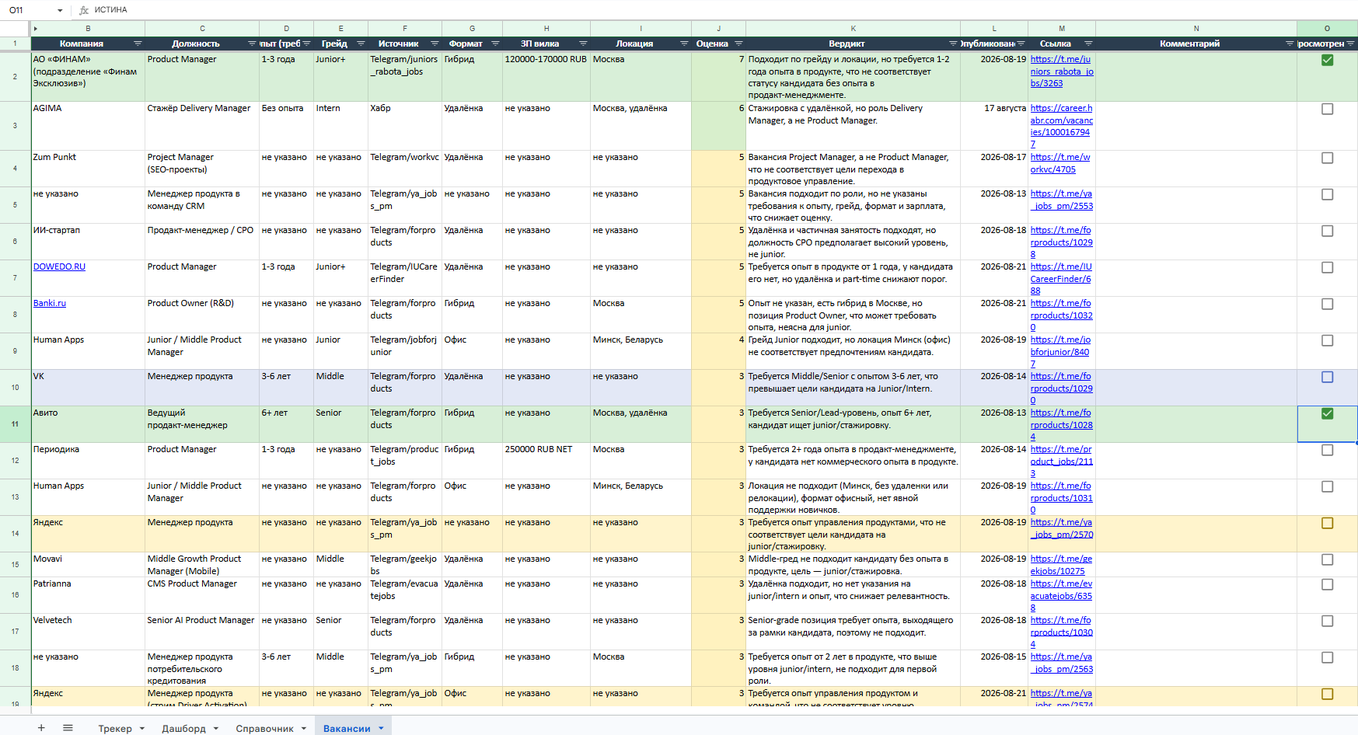
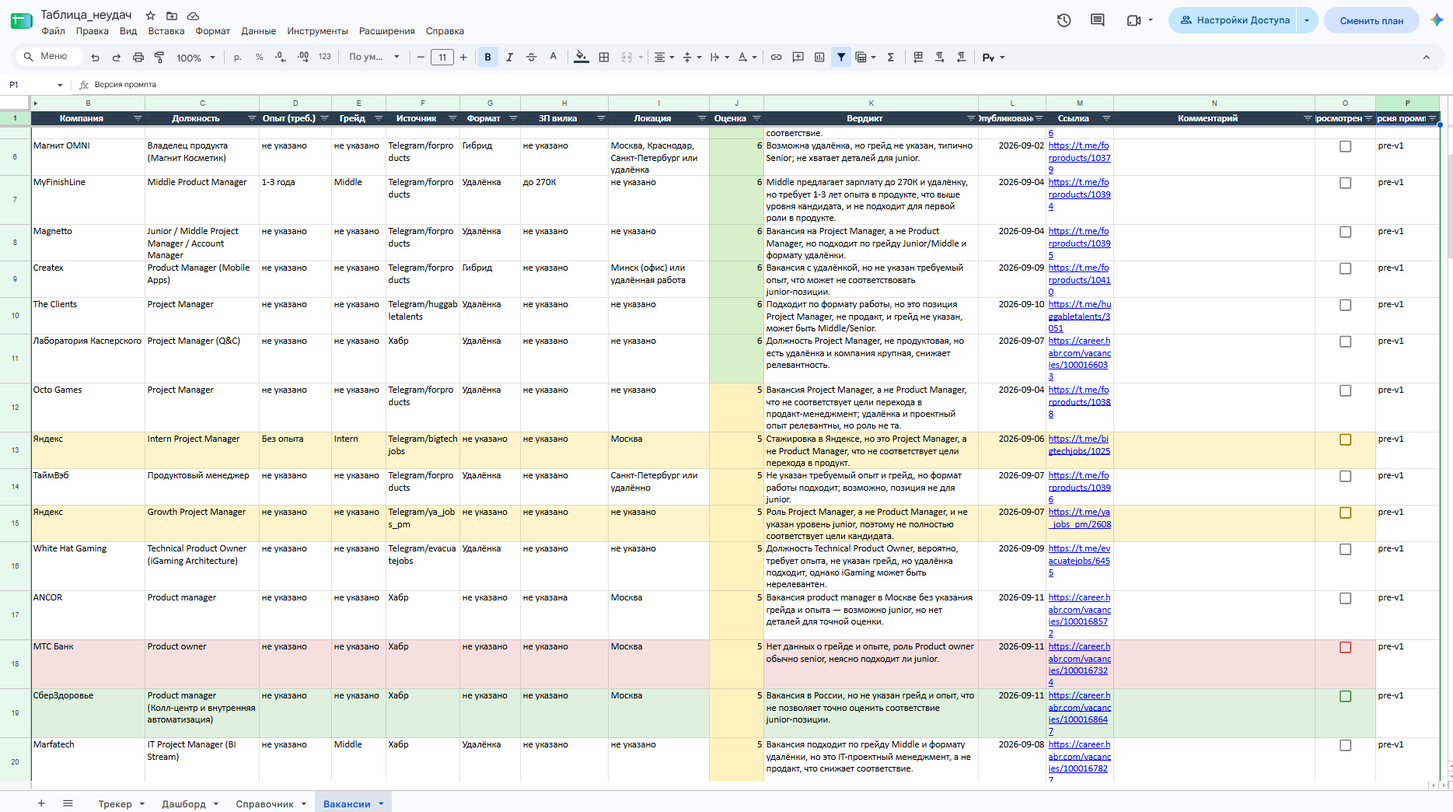
README: переписан как история эволюции, добавлен бот и наблюдаемость

diff --git a/README.md b/README.md
@@ -1,22 +1,22 @@
 # Новая вакансия подъехала
 
-Мой личный агент: сам находит стажировки и junior-вакансии в продукте, отсеивает лишнее и присылает в телеграм только то, что реально стоит открыть.
+Началось как личный скрипт: надоело вручную просматривать десятки телеграм-каналов в поисках первой роли в продукте. Закончилось телеграм-ботом, которым пользуюсь не только я.
 
-Собирает вакансии с Хабра и телеграм-каналов дважды в сутки, прогоняет через нейросеть, складывает в таблицу и пингует меня. Всё крутится в облаке само, компьютер включать не нужно.
+Собирает вакансии с Хабр Карьеры и 38 телеграм-каналов, прогоняет через нейросеть, складывает в таблицу и присылает подходящее в телеграм. Крутится в облаке само, компьютер включать не нужно.
 
-![Лист «Вакансии»: оценка цветовой шкалой, подсветка компаний](docs/vacancy-sheet.png)
+![Лист «Вакансии»: оценка, вердикт нейросети, версия промпта](docs/vacancy-sheet.png)
+
+Ниже - не описание готовой архитектуры, а история, как она такой стала. Почти каждое решение здесь переделывалось минимум один раз, и обычно потому, что данные не совпали с тем, что я думал.
 
 ## Проблема
 
-Искать первую роль в продукте - это подписаться на кучу каналов и постоянно высматривать в них своё. Неудобно: телеграм захламляется вакансиями, поток идёт вперемешку, и почти всё в нём - не твоё. Senior-позиции, вакансии не про продукт, реклама курсов.
+Искать первую роль в продукте - это подписаться на кучу каналов и постоянно высматривать в них своё. Телеграм захламляется, поток идёт вперемешку, и почти всё в нём - не твоё. Senior-позиции, вакансии не про продукт, реклама курсов.
 
 - **Где вообще смотреть?** hh.ru закрыл соискательский API - официально «поддержка прекращена 15 декабря 2025», по факту доступ отвалился весной 2026. Остались агрегаторы в телеграме и career-площадки.
-- **Как отличить своё от чужого?** мне, junior, не нужны Middle и Senior, но в ленте они вперемешку с подходящим, и глазами это разгребать долго.
-- **Одно и то же по пять раз.** каналы репостят друг друга, и одна вакансия прилетает из кучи мест.
+- **Как отличить своё от чужого?** мне, junior, не нужны Middle и Senior, но в ленте они вперемешку с подходящим.
+- **Одно и то же по пять раз.** каналы репостят друг друга, одна вакансия прилетает из кучи мест.
 
-## Как это работает
-
-Коротко: собрал → нейросеть оценила → сложил в таблицу → прислал в телеграм. И так каждые 12 часов, само.
+## Как это работает сейчас
 
 ```
 Откуда беру
@@ -27,70 +27,129 @@
 Собираю ─────── выкидываю явно не то, склеиваю повторы,
   │             отбрасываю всё старше 10 дней
   v
-Оценивает нейросеть ── ставит балл 0-10 и пишет вердикт,
-  │                     почему подходит или нет
+Оценивает нейросеть ── балл 0-10 и вердикт, почему подходит или нет
+  │
   v
-Таблица ─────── что прошло по баллу - падает сюда,
-  │             отсортировано, лучшее сверху
+Таблица ─────── что прошло по баллу - падает сюда, лучшее сверху
+  │
   v
-Телеграм ────── счётчик + топ подходящих (должность кликабельна)
+Телеграм ────── мне лично в служебный канал, подписчикам - в бота
 ```
 
-Всё это запускается по расписанию само - через GitHub Actions, дважды в день.
+Запускается по расписанию через GitHub Actions: основной слот утром и страховочный днём. Страховочный - не вторая рассылка, а догоняющий: если утренний запуск пропустили (у бесплатного крона такое бывает), он доберёт неотправленное. Для человека это выглядит как «раз в день».
 
-Так выглядит живой прогон (запустил вручную вскоре после автоматического - потому новых мало, основное собралось утром):
+Живой прогон:
 
-![Лог прогона: сбор с 38 каналов, воронка отсева, оценка нейросетью](docs/run-log.png)
+![Лог прогона: 249 карточек с Хабра, 5668 постов из 38 каналов, воронка отсева](docs/run-log.png)
 
-## Что внутри интереснее всего
+Воронка за один заход: 249 карточек с Хабра и 5668 постов из телеграма превращаются в две записи. Всё остальное отсеивается - как старое, как не-вакансии, как не подходящее по грейду.
 
-**Оценивает нейросеть, а не поиск по словам.** Я скармливаю ей текст вакансии и говорю, кто я: junior, перехожу в продукт. Она ставит балл и коротко объясняет решение. Обычный поиск по словам «product manager» притащил бы и Senior, и Project Manager - а нейросеть понимает, что Senior мне сейчас не по грейду, и честно ставит низкий балл с пояснением.
+## Что переделывалось и почему
 
-**Мусор не доходит до таблицы.** В таблицу попадает только то, что набрало 3 балла и выше. Порог подобрал по живым данным: всё, что ниже, стабильно оказывалось «не продукт» или явный Senior. Смысл простой - если в списке три четверти шума, ты его просто перестаёшь открывать.
+### Порог: симптом указывал не туда
 
-Масштаб отсева видно на одном прогоне: собралось больше тысячи постов, из них почти тысяча - старше 10 дней и сразу в топку, до оценки нейросетью доходит несколько десятков свежих, а в таблицу падают единицы по-настоящему подходящих. Бот прожёвывает эту тысячу за меня - я открываю только то, что осталось.
+Первая версия писала в таблицу всё подряд и слала в телеграм всё, что выше минимального балла. В боте оказался мусор: Senior, Project Manager, вакансии не про продукт.
 
-**Повторы не задваиваются.** У каждой вакансии есть невидимая метка-отпечаток. Каналы могут репостить один и тот же пост хоть десять раз - с такой меткой он запишется только однажды. Между заходами (а бот просыпается дважды в сутки) прошлые вакансии тоже помнятся: перемолоть больше тысячи постов и не записать ни одного повтора - обычный прогон.
+Очевидная гипотеза - нейросеть плохо оценивает. Проверил: взял то, что она забраковала, и перечитал руками. Оценивала честно, везде опыт от года-двух или Senior.
 
-**Нейросеть иногда капризничает - научил не спотыкаться.** Дешёвая модель любит «поразмышлять вслух» вместо того чтобы просто ответить, и от этого ломается. Лечится не повторами, а одной настройкой: «думай про себя, мне отдавай только ответ». Отдельно есть повтор на случай, если интернет моргнул.
+Причина была в другом месте: порог показа в боте стоял на том же значении, что порог записи в таблицу. Всё, что годилось для «посмотреть потом», летело в уведомление. Развёл два порога: в таблицу - от 3 баллов, в бота - от 5. Мусор остался в таблице, где ему и место.
 
-**Таблица сама себя чистит.** Вакансии старше 10 дней уезжают из таблицы каждый прогон - они уже протухли. Специально не стал ставить жёсткий лимит «не больше N строк»: удалишь свежую - а она на следующем заходе вернётся как «новая», и получится вечная карусель. Чищу только по возрасту.
+### Дедуп, который выглядел рабочим
 
-**Уведомление, из которого сразу видно суть.** Раньше бот присылал только счётчик - «новых N», и всё равно приходилось лезть в таблицу. Теперь в сообщение попадает топ самых подходящих: должность кликабельной ссылкой, компания, формат, город. Открываю вакансию прямо из телеграма, в таблицу - только если хочу копнуть глубже. Порог для показа в уведомлении выше, чем для попадания в таблицу: в таблицу идёт всё годное, в пуш - только явно моё, чтобы сообщение не превращалось в простыню. Пишет и когда не нашёл ничего нового - короткое «пока тишина». Так я вижу, что бот отработал и жив, а не завис молча.
+В таблице копились дубли. Дедуп по отпечатку вакансии был написан и на вид работал.
 
-**Ключи и доступы - подальше от чужих глаз.** У бота есть ключ к нейросети, токен телеграм-бота и доступ к моим таблицам - попади это к постороннему, он получит и мой доступ, и мои деньги на счету нейросети. Поэтому ничего этого нет в коде: секреты лежат отдельно (локально в файле, который не уходит в общий доступ, в облаке - в защищённом хранилище GitHub), а в самом коде только их названия, не значения. Один раз, разбирая задачу с ИИ по скриншотам, я не заметил, что в кадр попал токен бота, в итоге отозвал его и выпустил новый. Лучше сразу в себе воспитывать безопасность, как будто и ИИ не стоит доверять.
+Оказалось, в листе была скрытая колонка, и запись уходила со сдвигом на одну позицию: отпечаток ложился не в ту ячейку. Проверка искала его там, где его никогда не было, и каждый раз честно отвечала «такого нет».
 
-## Почему нейросеть, а не просто фильтр по словам
+Ошибок нет, логи чистые, всё «работает» - поломка была молчаливой. Нашёл только потому, что полез смотреть глазами, что реально лежит в ячейках. Пары дней хватило, чтобы дублей набралось заметно.
 
-Можно было отфильтровать по ключевым словам - дёшево и без всяких нейросетей. Но подходит вакансия или нет - это не список слов. «Product Manager, опыт 1-3 года» по названию вроде моё, а по сути уже нет. Нейросеть читает требования целиком и отвечает на вопрос «а этому конкретному человеку оно подходит?», а не «есть ли в тексте нужное слово».
+### Хабр: три гипотезы, ни одна не подтвердилась
 
-Проверил, что оценивает честно: вакансии, которые она забраковала низким баллом, я перепроверил руками - и правда не для junior, везде опыт от года-двух или Senior. Годное в отсев не улетает.
+Хабр давал 2-4 вакансии за прогон при сотнях из телеграма. Списывал на бедность источника.
+
+Когда дошли руки, выдвинул три версии: сломался парсер, слишком жёсткий предфильтр, или на Хабре правда ничего нет. Не подтвердилась ни одна.
+
+В адресе запроса к Хабру остались параметры «Казань + Москва + удалёнка» - от старой версии, когда я искал только по этим городам. Профиль давно сменился на «вся Россия и удалёнка», это было прописано в задании для нейросети, но в сборщике осталось по-старому. Рассинхрон между двумя звеньями, который не проявлялся как ошибка - просто половина рынка не доезжала до оценки.
+
+Убрал фильтр: сбор вырос с 2 до 37 вакансий за прогон (249 карточек до отсева).
+
+Отдельный урок для меня: пока разбирались, я дважды принёс цифры, которые ничего не доказывали - смотрел выдачу Хабра в браузере, а не тем запросом, которым ходит код. Проверять надо тем же путём, которым ходит система, иначе меряешь не то.
+
+### Лимит, который тихо резал недоставленное
+
+В таблице стоял предел на количество строк - страховка от бесконечного роста. Раньше он не срабатывал, потому что вакансий было мало.
+
+После расширения Хабра поток вырос, и обнаружилось: при переполнении лимит резал строки, ничего не зная о том, ушли они подписчикам или ещё ждут своей очереди. За прогон рассылается не больше десяти вакансий, остальные ждут следующего - и могли быть удалены раньше, чем дойдёт очередь. Не дубль у людей, а тихая потеря: вакансия исчезала и до них не доходила вовсе.
+
+Нашли на 144 строках из 150, за пару дней до срабатывания.
+
+Можно было поднять лимит - и это был бы ремонт симптома. Вместо этого лимит научился знать о доставке: строки, которые ещё не ушли подписчикам и прошли по баллу, обрезке не подлежат.
+
+## Личный инструмент стал продуктом
+
+До какого-то момента это был скрипт для одного человека. Потом стало понятно, что та же боль есть у всех, кто ищет первую роль в продукте, - а у меня уже работающий конвейер.
+
+<img src="docs/bot-gate.jpg" width="300" alt="Гейт: доступ к боту через подписку на канал">
+
+Что пришлось решить, чего не было в личной версии:
+
+**Доступ.** Бот открыт участникам моего телеграм-канала. Не жёсткое требование, а условие обмена: человек видит отказ со ссылкой и решает сам. Тихий отказ вместо навязчивого «подпишись».
+
+**Одна лента на всех или своя каждому.** Персонализация выглядела правильнее, но означала анкету, хранилище профилей и вызовы нейросети на каждого подписчика - то есть другой продукт. Выбрал одну ленту: масштабируется почти бесплатно, потому что оценка вакансии делается один раз независимо от числа получателей. Персонализацию отложил осознанно, а не забыл.
+
+**Где живёт бот.** Для входящих сообщений нужен постоянно доступный процесс - крон GitHub для этого не годится, он умирает между запусками. Взял serverless: бот просыпается только на входящее сообщение и укладывается в бесплатный лимит. Рассылка при этом осталась там, где была - в облачном расписании. Две части развязаны и общаются по защищённому адресу.
+
+**Тексты писал раньше кода.** Всё, что бот говорит - приветствие, отказ, справку, ответ на непонятную команду, - сформулировал до того, как это программировалось. Человек, который ещё не подписан, видит от продукта ровно одно сообщение: отказ. Если в нём не сказано, что делать дальше, он просто закроет бота и не вернётся. Поэтому в отказе есть ссылка на канал и прямая инструкция нажать /start ещё раз.
+
+<img src="docs/bot-digest.jpg" width="300" alt="Рассылка: подборка вакансий в боте">
+
+## Главный риск оказался не в функциональности
+
+Когда у продукта появились живые пользователи, стало видно главное: система умеет ломаться беззвучно. И дедуп, и фильтр Хабра ломались именно так - ошибок в логах не было, всё выглядело рабочим. Пока пользовался один я, это стоило мне пропущенной вакансии. С людьми цена другая.
+
+Что сделал:
+
+**Детектор аномалии сбора.** Система сравнивает, сколько карточек собрала, со средним за последние прогоны. Резкое падение или ноль - сообщение мне. Порог считается по собранным карточкам, а не по прошедшим отбор: вторые естественно скачут день ото дня, и алерт на них орал бы постоянно.
+
+**Сообщения о сбоях.** Раньше падение скрипта в облаке можно было заметить, только заглянув в логи. Теперь оно приходит в телеграм.
+
+**Версия задания для нейросети.** Промпт правился несколько раз. Рядом с каждой оценкой теперь пишется версия - иначе при просадке качества нечем понять, от какой правки.
+
+**Движение подписчиков.** Подключения и отписки приходят счётчиком, без личных данных: «+1, всего N». Считаются и отказы на входе - сколько людей дошло до бота, но не стало подписываться. Это разные выводы: «пост не сработал» и «пост сработал, но условие отпугнуло».
+
+## Безопасность
+
+У бота есть ключ к нейросети, токен телеграма и доступ к моим таблицам - попади это к постороннему, он получит и мой доступ, и мои деньги на счету нейросети. Поэтому в коде только названия секретов, не значения: локально в файле, который не уходит в общий доступ, в облаке - в защищённом хранилище.
+
+Адреса, доступные из интернета, закрыты отдельными секретами - каждый своим, чтобы утечка одного не открывала остальные. О пользователях не хранится ничего лишнего: только идентификатор и статус подписки, ни имён, ни переписки.
 
 ## На чём собрано
 
-Python, нейросеть через OpenRouter, Google Таблицы, запуск по расписанию через GitHub Actions, уведомления через телеграм-бота.
+Python, нейросеть через OpenRouter, Google Таблицы, расписание через GitHub Actions, телеграм-бот. Часть, отвечающая на входящие сообщения, - на Cloudflare Workers с их же key-value хранилищем.
+
+Выбор дешёвой модели вместо топовой - осознанный: на потоке в тысячи постов разница в качестве не стоит цены. Отсев работает не за счёт ума модели, а за счёт того, что до неё доходит уже отфильтрованное.
 
 ## Решения и почему так
 
 | Решение | Как ещё можно было | Почему выбрал это |
 |---|---|---|
 | Оценка нейросетью | Фильтр по словам | Слова не отличают junior-вакансию от Senior с тем же названием |
-| Порог по баллу на входе | Писать всё, фильтровать глазами | Список, где три четверти - шум, перестаёшь открывать |
+| Два разных порога: в таблицу и в бота | Один общий порог | Общий порог гнал в уведомления всё, что годилось «посмотреть потом» |
+| Одна лента на всех | Свой профиль каждому | Персонализация - другой продукт: анкета, хранилище, оценка на каждого |
+| Гейт по подписке на канал | Открытый доступ | Условие обмена, понятное обеим сторонам; отказ тихий, без давления |
+| Дедуп по вакансии | Дедуп по паре «человек + вакансия» | Лента одна на всех - хранить пары незачем, а стоило бы дороже |
+| Лимит строк, знающий о доставке | Просто поднять лимит | Поднять - отложить проблему; причина была в том, что лимит не знал о доставке |
 | Google Таблица как экран | База данных + сайт | Ноль возни: открыл ссылку, галочкой отметил просмотренное |
-| Отпечаток вакансии | Сверять по тексту | Отпечаток не врёт, а текст репоста может чуть отличаться |
-| «Думай про себя» | Переспрашивать при сбое | Упрямая модель спотыкается на том же месте; дело в формате, не в сети |
-| Чистка по возрасту | Лимит «не больше N» | Лимит рождает карусель: удалил свежее - вернётся как новое |
-| Дешёвая модель | Дорогая топовая | На потоке в сотни вакансий разница в качестве не стоит цены |
-| Топ в уведомление, остальное в таблицу | Слать все новые в пуш | Пуш из 15 вакансий не читается; в сообщение - только явно моё |
+| Serverless для входящих | Постоянный сервер | Бот просыпается на сообщение; при этих объёмах укладывается в бесплатный лимит |
+| Дешёвая модель | Дорогая топовая | На потоке в тысячи постов разница в качестве не стоит цены |
 
 ## Как это делалось
 
-Код писал в связке с ИИ - без него на реализацию ушли бы недели. Но
-инструмент не отменяет мышления: почти всё время заняла не сборка, а
-отладка - и находить настоящую причину бага, а не симптом, приходилось
-самому. Главный урок проекта короткий: пользуйся ИИ, но не выключай
-критическое мышление и умей думать сам.
+Код писал в связке с ИИ - без него ушли бы недели. Но инструмент не отменяет мышления: почти всё время заняла не сборка, а отладка, и находить настоящую причину, а не симптом, приходилось самому.
+
+Сквозная линия всей этой истории: **симптом почти никогда не указывает туда, где причина.** Мусор в боте выглядел как проблема нейросети - оказался порогом. Дубли выглядели как сломанный дедуп - оказались скрытой колонкой. Бедность Хабра выглядела как бедность источника - оказалась забытым фильтром по городам.
+
+Каждый раз спасало одно и то же: не чинить по догадке, а сначала посмотреть на данные. И проверять их тем же путём, которым ходит система, - иначе меряешь не то, что работает.
 
 ## Автор
 
-Андрей · Телеграм: [@Aysvoch](https://t.me/Aysvoch) · Канал: [Приватный эфир](https://t.me/Private_ether)
+Андрей · Телеграм: [@Aysvoch](https://t.me/Aysvoch) · Канал: [Приватный эфир](https://t.me/Private_ether) · Бот: [@vakansiya_podehala_bot](https://t.me/vakansiya_podehala_bot)
